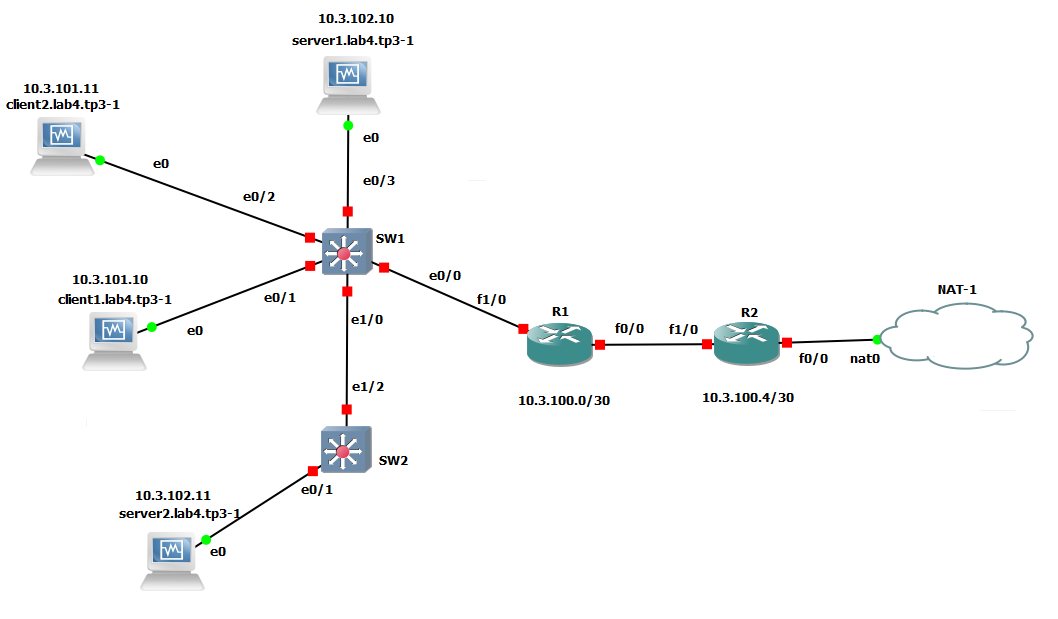
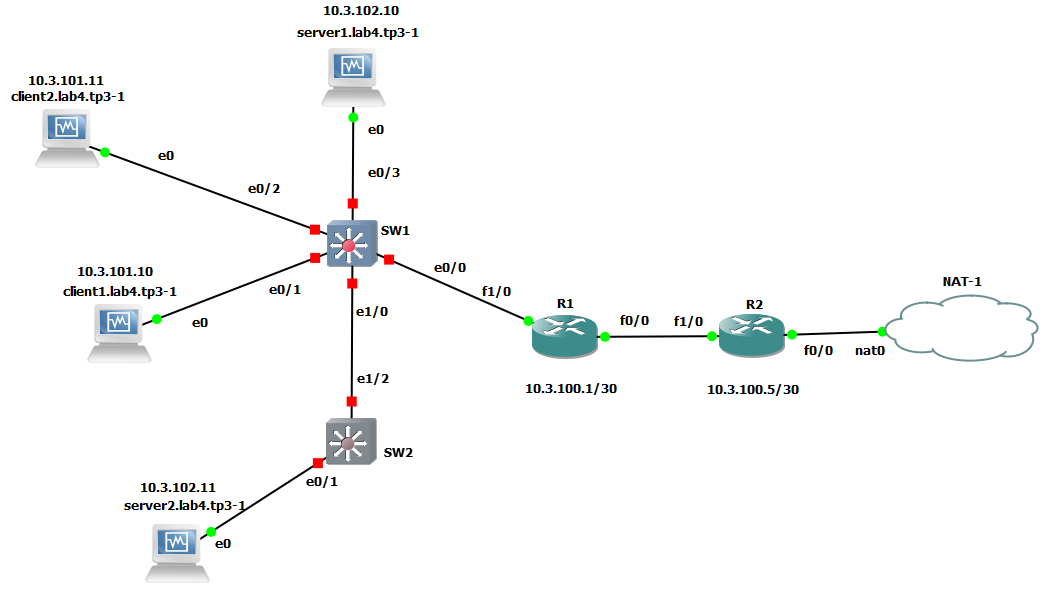
update

diff --git a/tp/tp3.md b/tp/tp3.md
@@ -242,12 +242,37 @@ R4(config-router)#network 10.3.100.13 0.0.0.3 area 0
 
 ![](https://raw.githubusercontent.com/BenoitYnov/B2-CCNA2/master/img/topo.png)
 
-|      Hosts       | 10.3.100.0/30 | 10.3.100.4/30 | 10.3.101.0/24 | 10.3.102.0/24 |
-| :--------------: | :-----------: | :-----------: | :-----------: | :-----------: |
-| client1.lab4.tp3 |       x       |       x       |  10.3.101.11  |       x       |
-| client2.lab4.tp3 |       x       |       x       |  10.3.101.12  |       x       |
-| server1.lab4.tp3 |       x       |       x       |       x       |  10.3.102.10  |
-| server2.lab4.tp3 |       x       |       x       |       x       |  10.3.102.11  |
-| router1.lab4.tp3 |  10.3.100.1   |  10.3.100.5   |       x       |       x       |
-| router2.lab4.tp3 |  10.3.100.2   |  10.3.100.6   |       x       |       x       |
+|      Hosts       | 10.3.100.0/30 | 10.3.100.4/30 | 10.3.101.0/24  | 10.3.102.0/24  |
+| :--------------: | :-----------: | :-----------: | :------------: | :------------: |
+| client1.lab4.tp3 |       x       |       x       | 10.3.101.11/24 |       x        |
+| client2.lab4.tp3 |       x       |       x       | 10.3.101.12/24 |       x        |
+| server1.lab4.tp3 |       x       |       x       |       x        | 10.3.102.10/24 |
+| server2.lab4.tp3 |       x       |       x       |       x        | 10.3.102.11/24 |
+| router1.lab4.tp3 | 10.3.100.1/30 | 10.3.100.5/30 |       x        |       x        |
+| router2.lab4.tp3 | 10.3.100.2/30 | 10.3.100.6/30 |       x        |       x        |
+
+> Configuration des hosts 
+
+> Configuration des routeurs (ici Router1 pour l'exemple)
+
+```
+R1(config)#interface fastEthernet 0/0
+R1(config-if)#ip address 10.3.100.1 255.255.255.252
+R1(config-if)#no shut
+R1(config-if)#exit
+R1(config)#exit
+
+R1(config)#interface fastEthernet 1/0
+R1(config-if)#ip address 10.3.100.5 255.255.255.252
+R1(config-if)#no shut
+R1(config-if)#exit
+R1(config)#exit
+
+R1#sh ip interface brief
+Interface                  IP-Address      OK? Method Status                Protocol
+FastEthernet0/0            10.3.100.1      YES manual up                    up
+FastEthernet1/0            10.3.100.5      YES manual up                    up
+FastEthernet2/0            unassigned      YES unset  administratively down down
+FastEthernet3/0            unassigned      YES unset  administratively down down
+```
 
